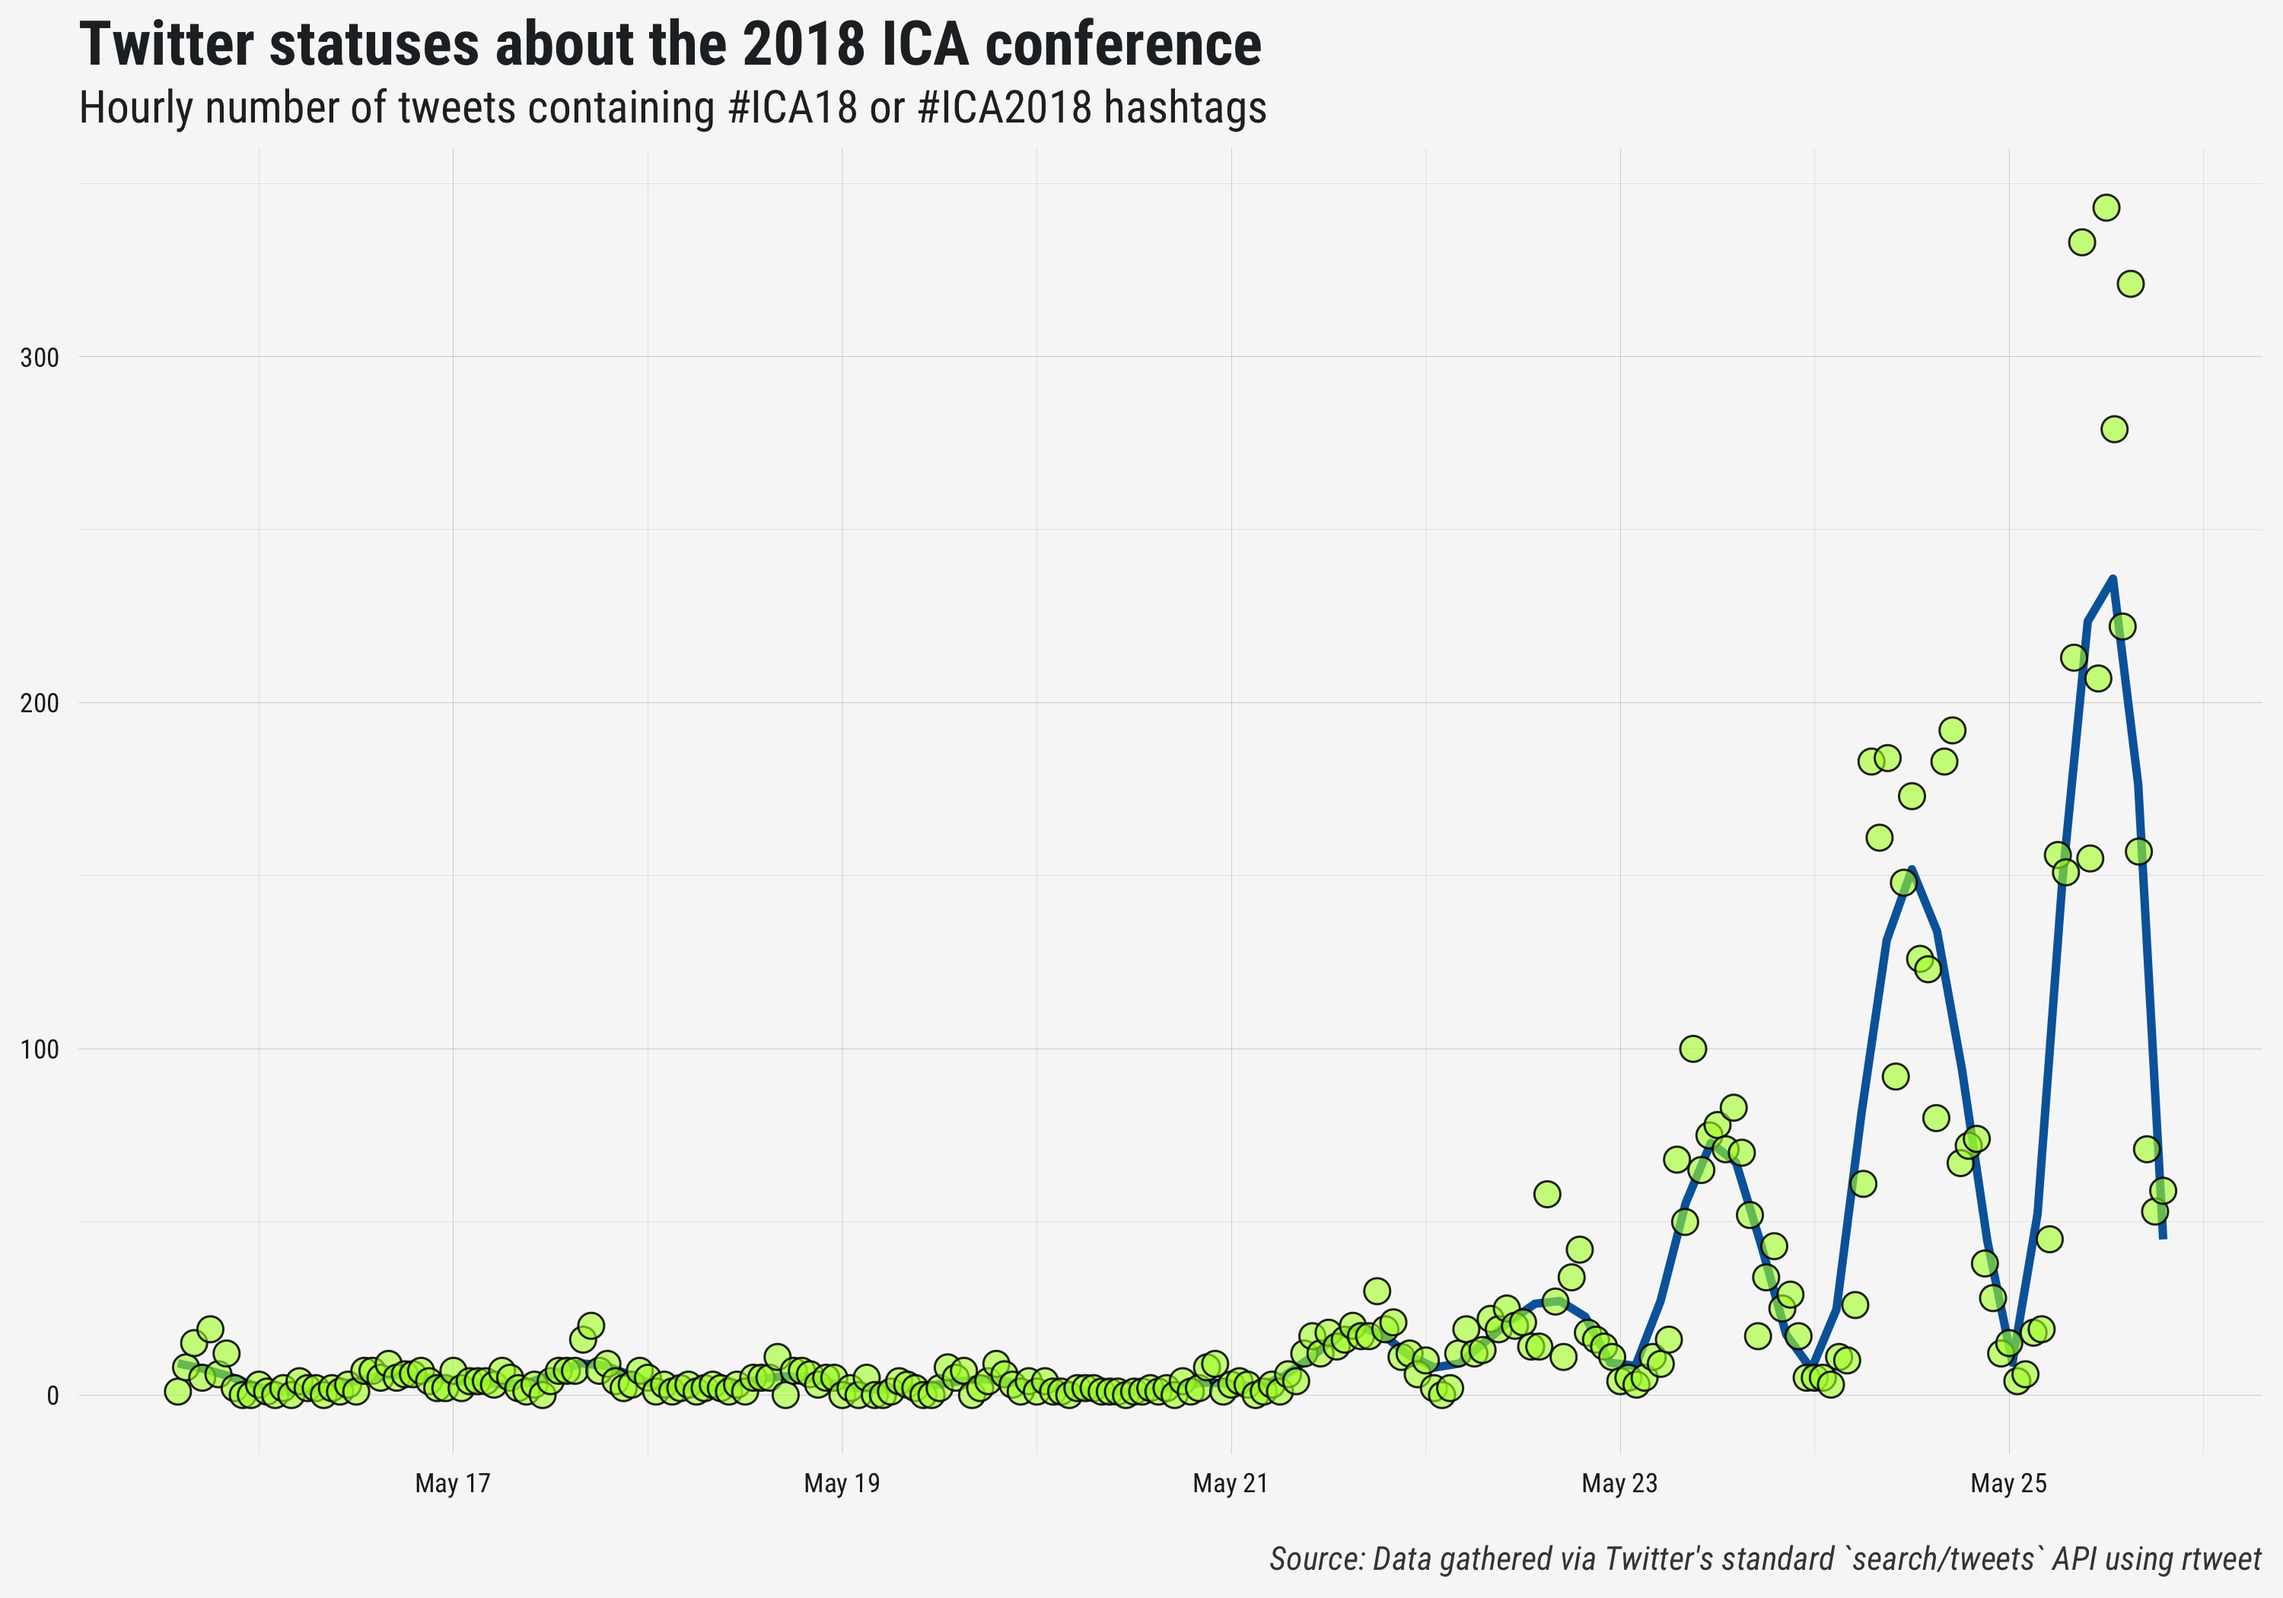
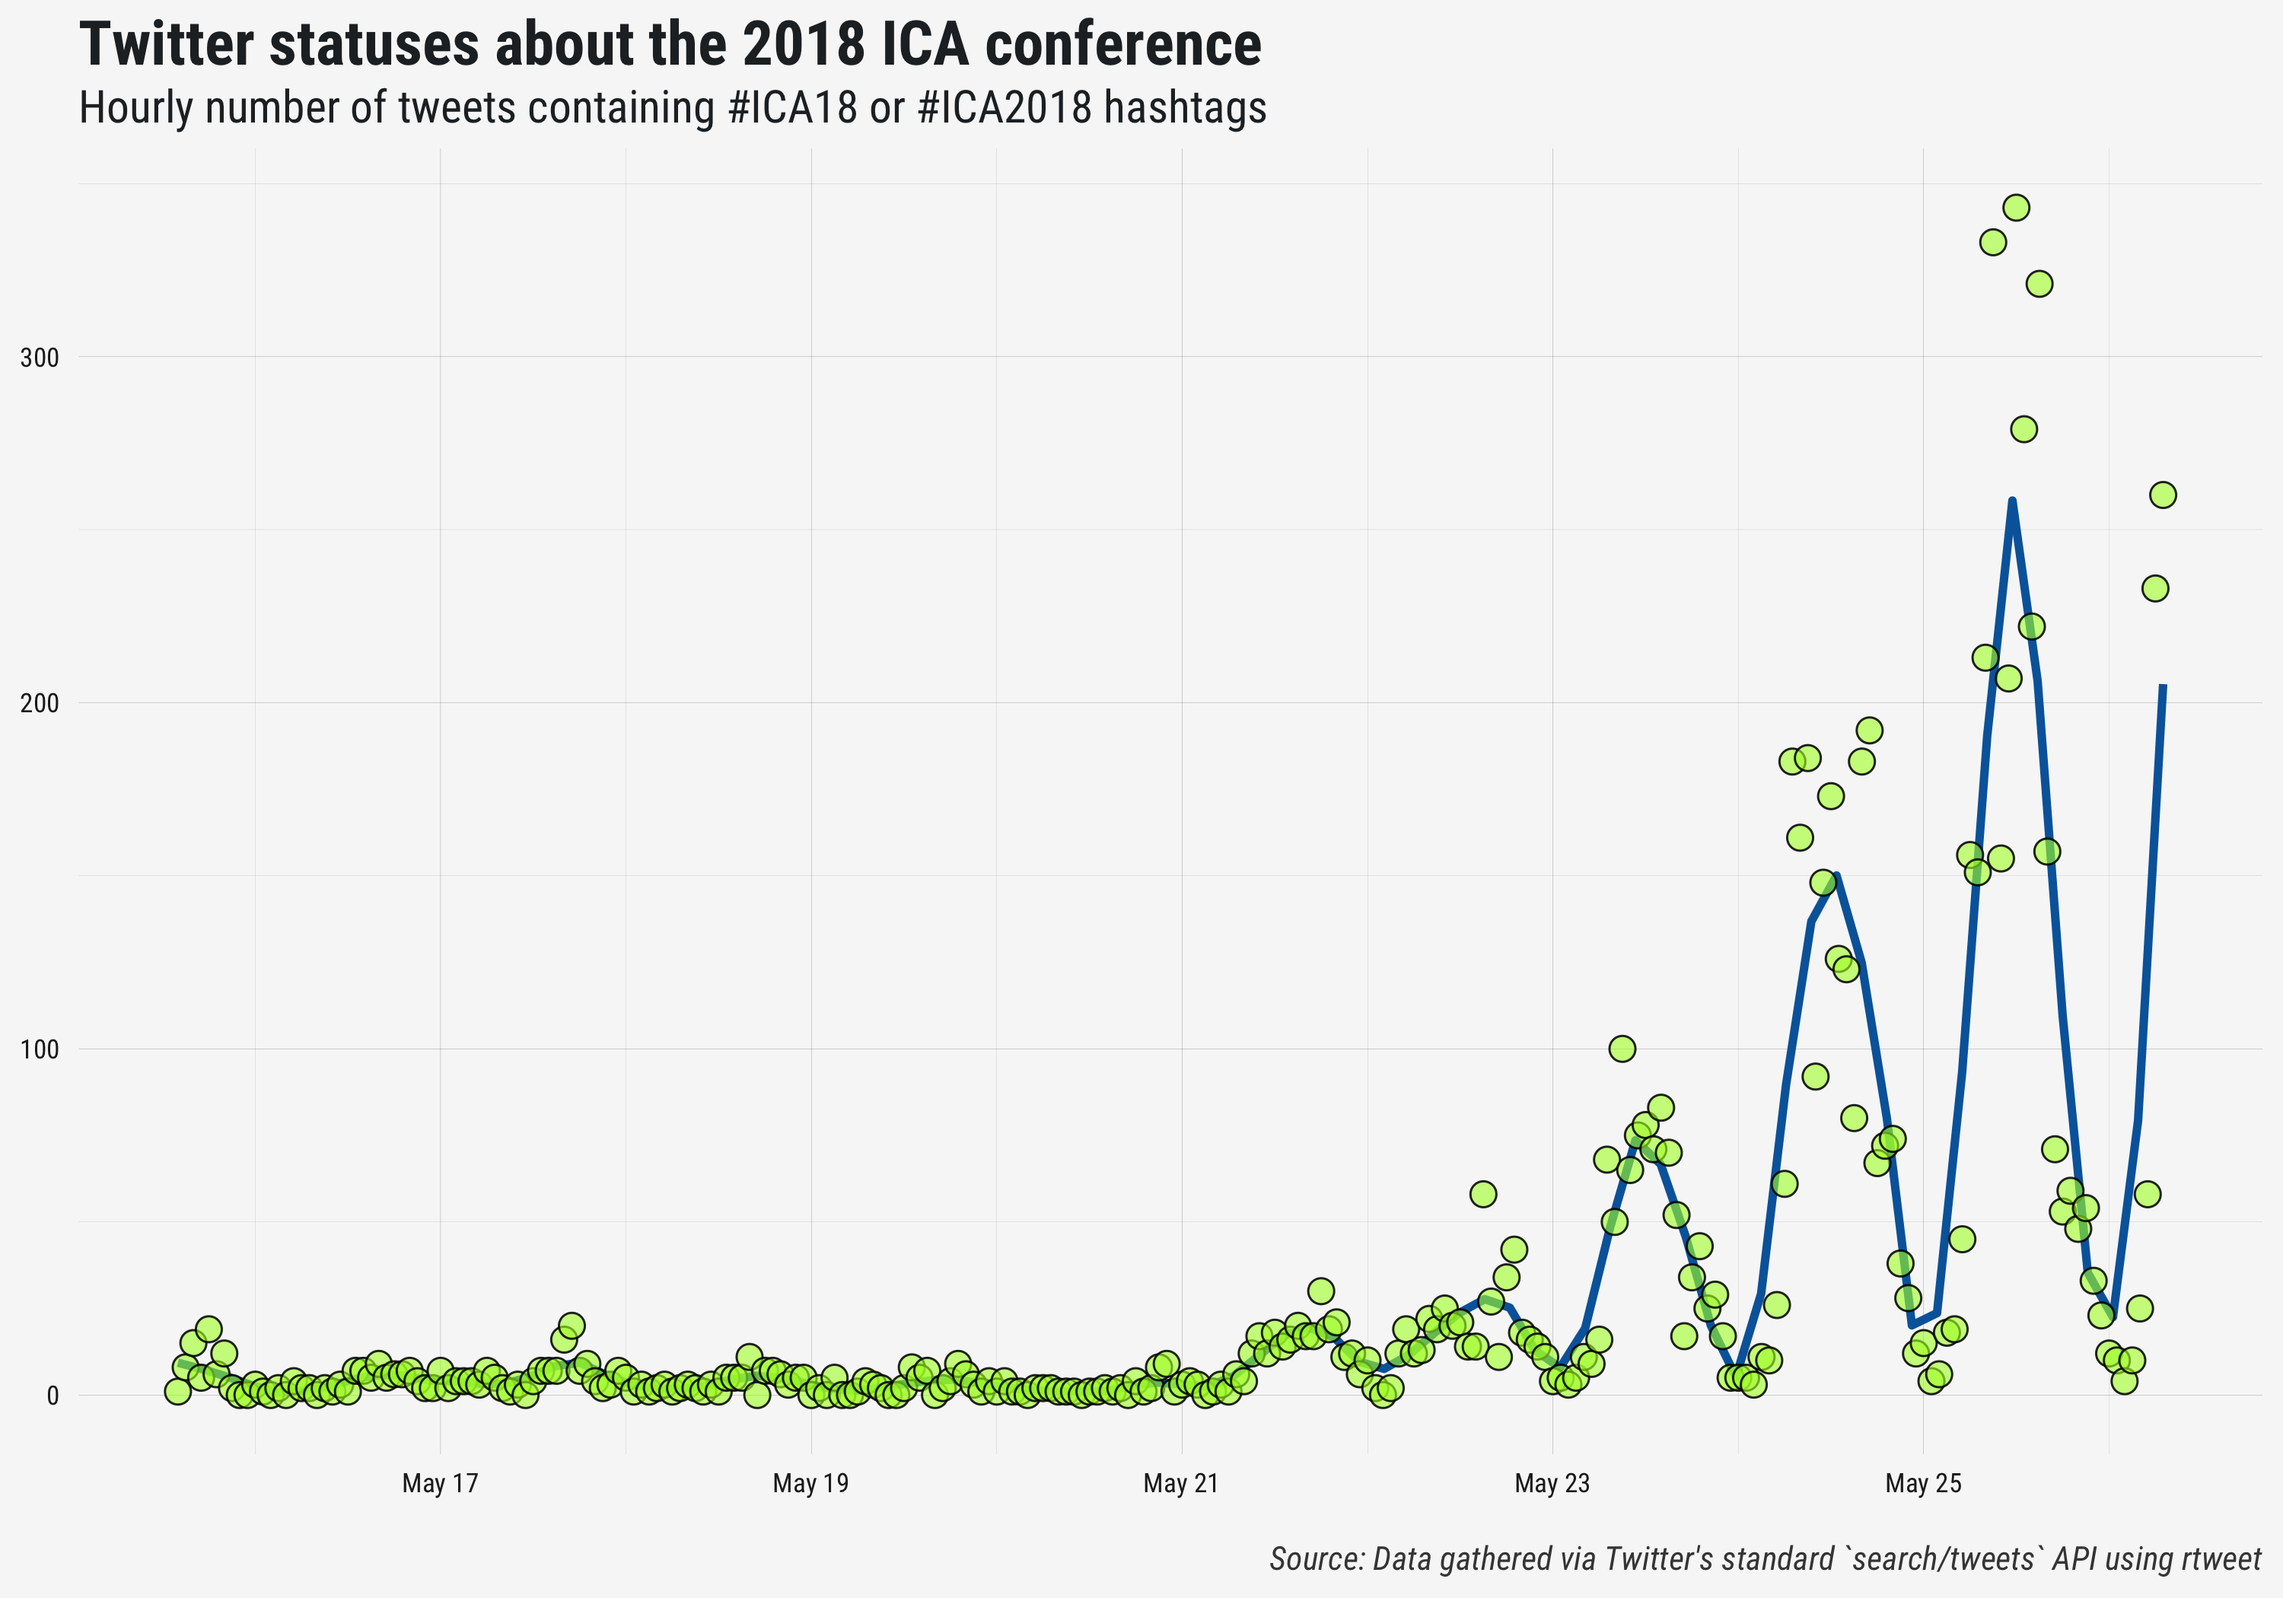
update

diff --git a/README.md b/README.md
@@ -40,20 +40,20 @@ saveRDS(ica, file.path("data", "ica18.rds"))
 
 ## view data
 ica
-#> # A tibble: 7,059 x 87
-#>    user_id  status_id  created_at          screen_name text         source
-#>    <chr>    <chr>      <dttm>              <chr>       <chr>        <chr> 
-#>  1 1041967… 100005422… 2018-05-25 16:41:23 sjwade6     Pleased to … Twitt…
-#>  2 1068950… 100008560… 2018-05-25 18:46:04 ryanstoldt  RT @bekdale… Twitt…
-#>  3 1125340… 100006886… 2018-05-25 17:39:31 Djalliejj   RT @SerenaD… Twitt…
-#>  4 1150442… 100004327… 2018-05-25 15:57:52 rensvl      Congrats to… Twitt…
-#>  5 1157406… 100004609… 2018-05-25 16:09:03 skhunt2     RT @Annenbe… Twitt…
-#>  6 1157406… 100004347… 2018-05-25 15:58:39 skhunt2     RT @patyros… Twitt…
-#>  7 1157406… 100004805… 2018-05-25 16:16:51 skhunt2     "RT @rasmus… Twitt…
-#>  8 1157406… 100005055… 2018-05-25 16:26:45 skhunt2     Trending ke… Twitt…
-#>  9 1160160… 100004960… 2018-05-25 16:22:59 poli_com    RT @oscarzh… Twitt…
-#> 10 1160160… 100005550… 2018-05-25 16:46:28 poli_com    RT @dpfu: B… Twitt…
-#> # ... with 7,049 more rows, and 81 more variables:
+#> # A tibble: 7,936 x 87
+#>    user_id  status_id created_at          screen_name text          source
+#>    <chr>    <chr>     <dttm>              <chr>       <chr>         <chr> 
+#>  1 1000551… 10001519… 2018-05-25 23:09:37 agzocar     RT @Ilan_Man… Twitt…
+#>  2 1004486… 10002666… 2018-05-26 06:45:21 lauraolkko… "We are very… Twitt…
+#>  3 1004486… 10002822… 2018-05-26 07:47:23 lauraolkko… Different #e… Twitt…
+#>  4 1004486… 10002609… 2018-05-26 06:22:46 lauraolkko… Super intere… Twitt…
+#>  5 1004486… 10002698… 2018-05-26 06:58:06 lauraolkko… RT @_LeoCust… Twitt…
+#>  6 1004486… 10002598… 2018-05-26 06:18:20 lauraolkko… Use of alter… Twitt…
+#>  7 1006085… 10002700… 2018-05-26 06:58:55 TzlilSharon @Asaf_Nissen… Twitt…
+#>  8 10141482 10001443… 2018-05-25 22:39:37 earriagada  RT @cscolari… Twitt…
+#>  9 1024842… 10002910… 2018-05-26 08:22:26 pisotalus   Parikymmentä… Twitt…
+#> 10 1027381… 10002908… 2018-05-26 08:21:48 vivmarshuk  RT @rasmus_k… Twitt…
+#> # ... with 7,926 more rows, and 81 more variables:
 #> #   display_text_width <dbl>, reply_to_status_id <chr>,
 #> #   reply_to_user_id <chr>, reply_to_screen_name <chr>, is_quote <lgl>,
 #> #   is_retweet <lgl>, favorite_count <int>, retweet_count <int>,
